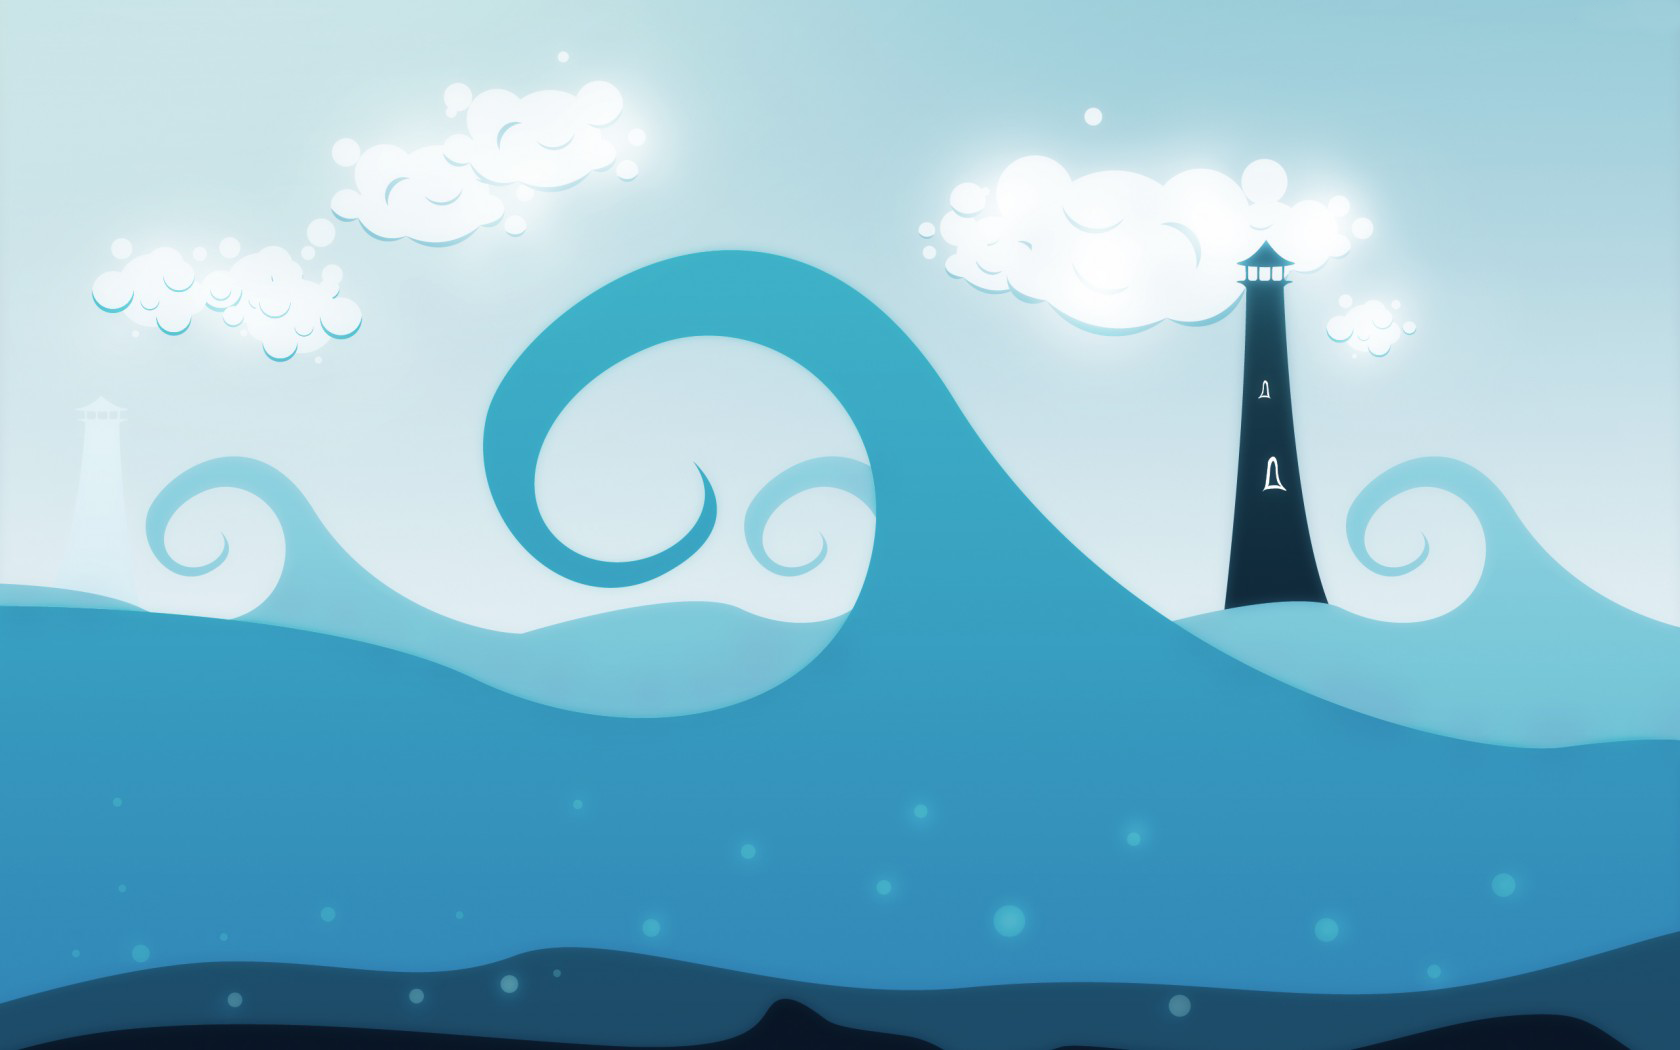
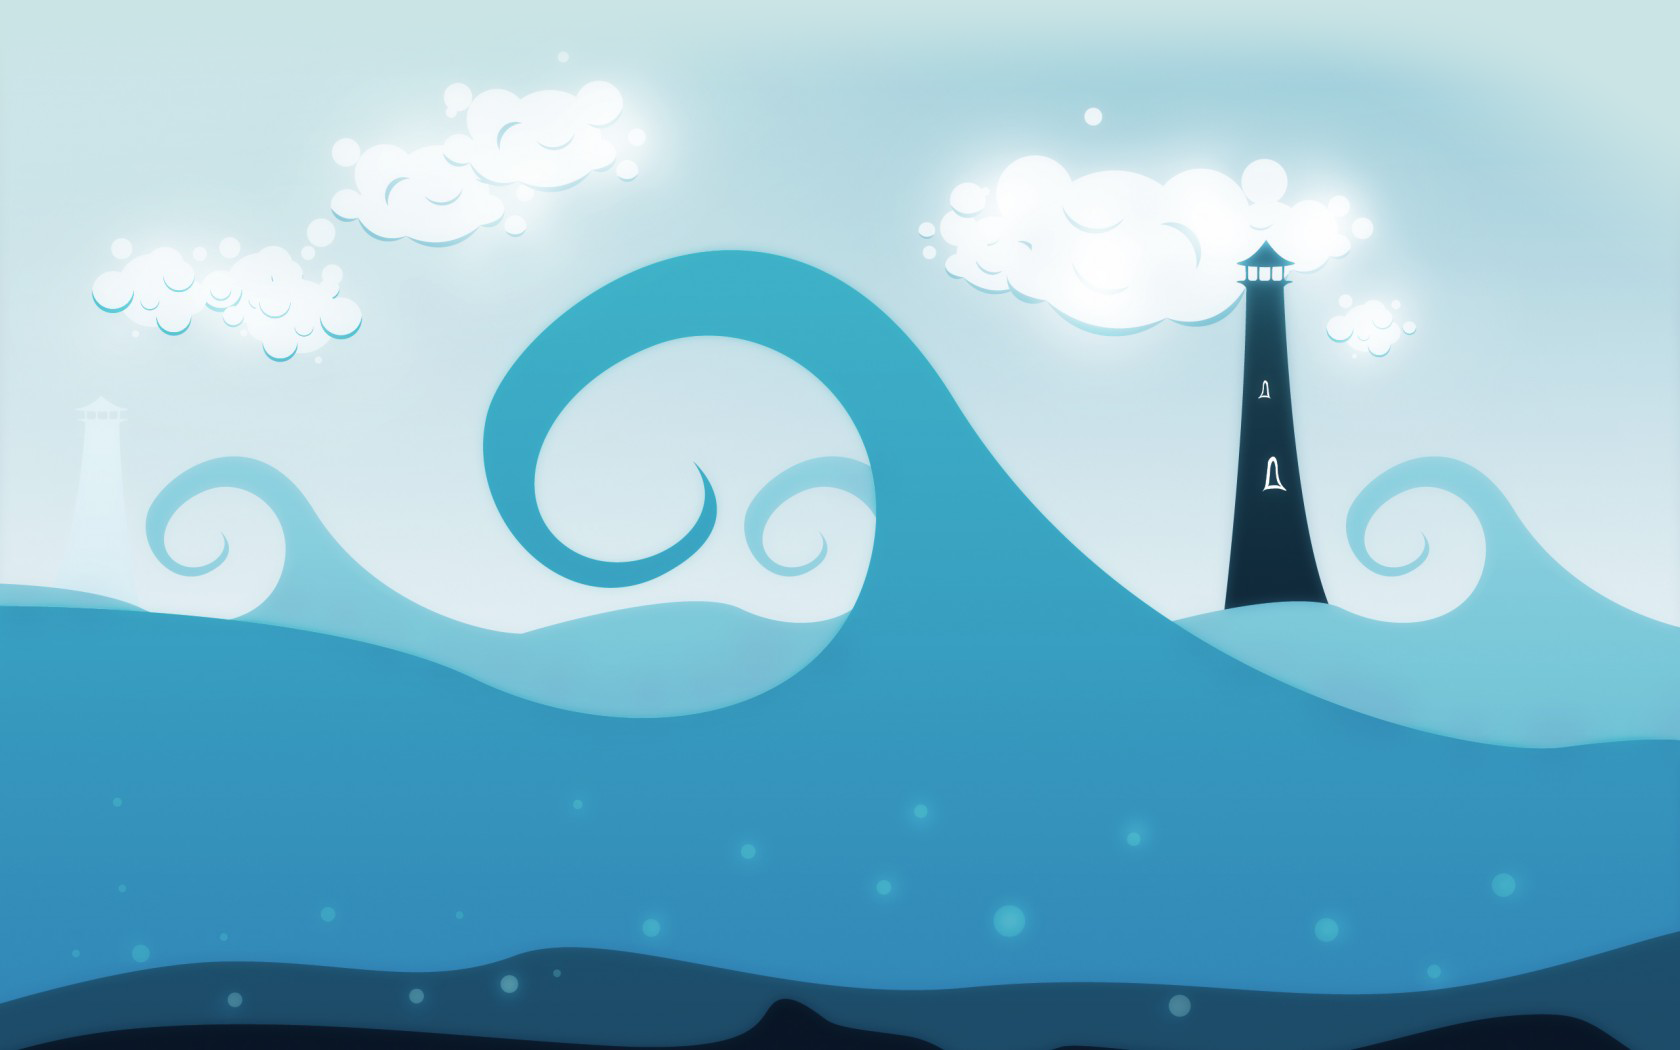
Fix Issue #4

Changed region(s): [[0.4643, 0.0, 1.0, 0.1829]]

diff --git a/style.css b/style.css
@@ -1,5 +1,5 @@
 body {
-	background: #71B1B7 url('images/bg.png') no-repeat bottom center fixed;
+	background: #CAE4E5 url('images/bg.png') no-repeat bottom center fixed;
 	background-size:100%;
 	margin: 0px;
 	padding: 0px;
